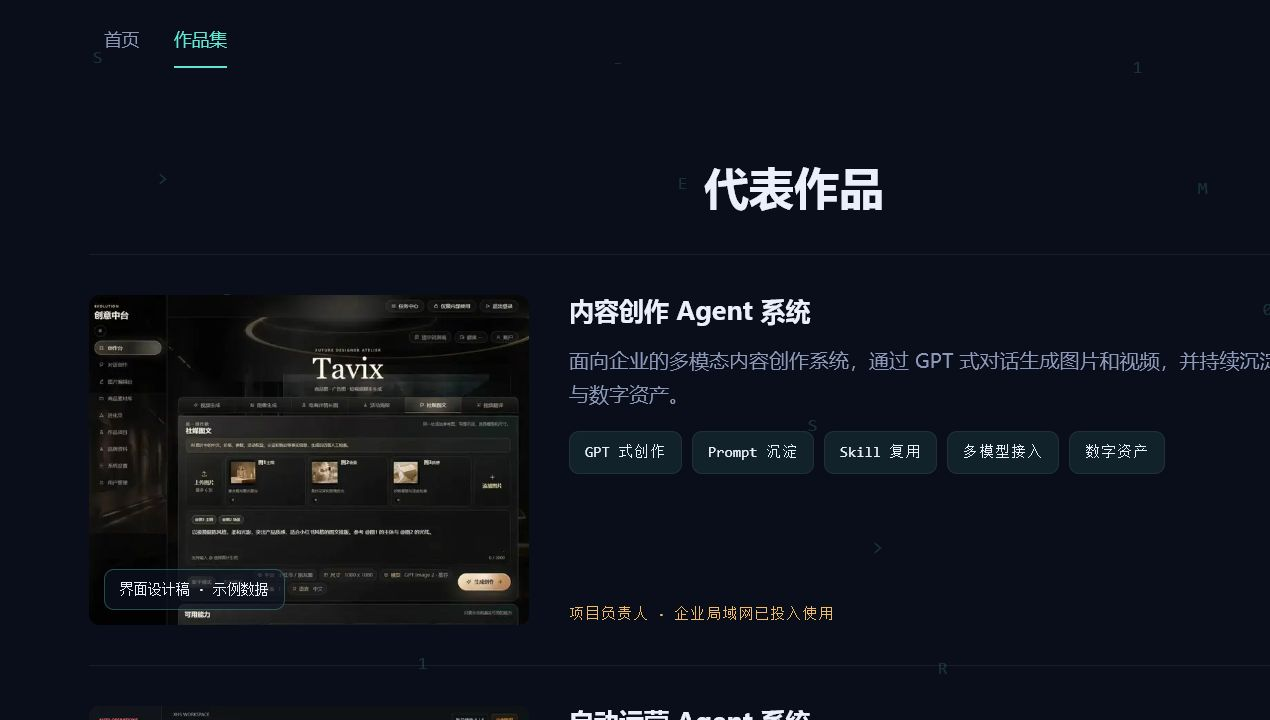
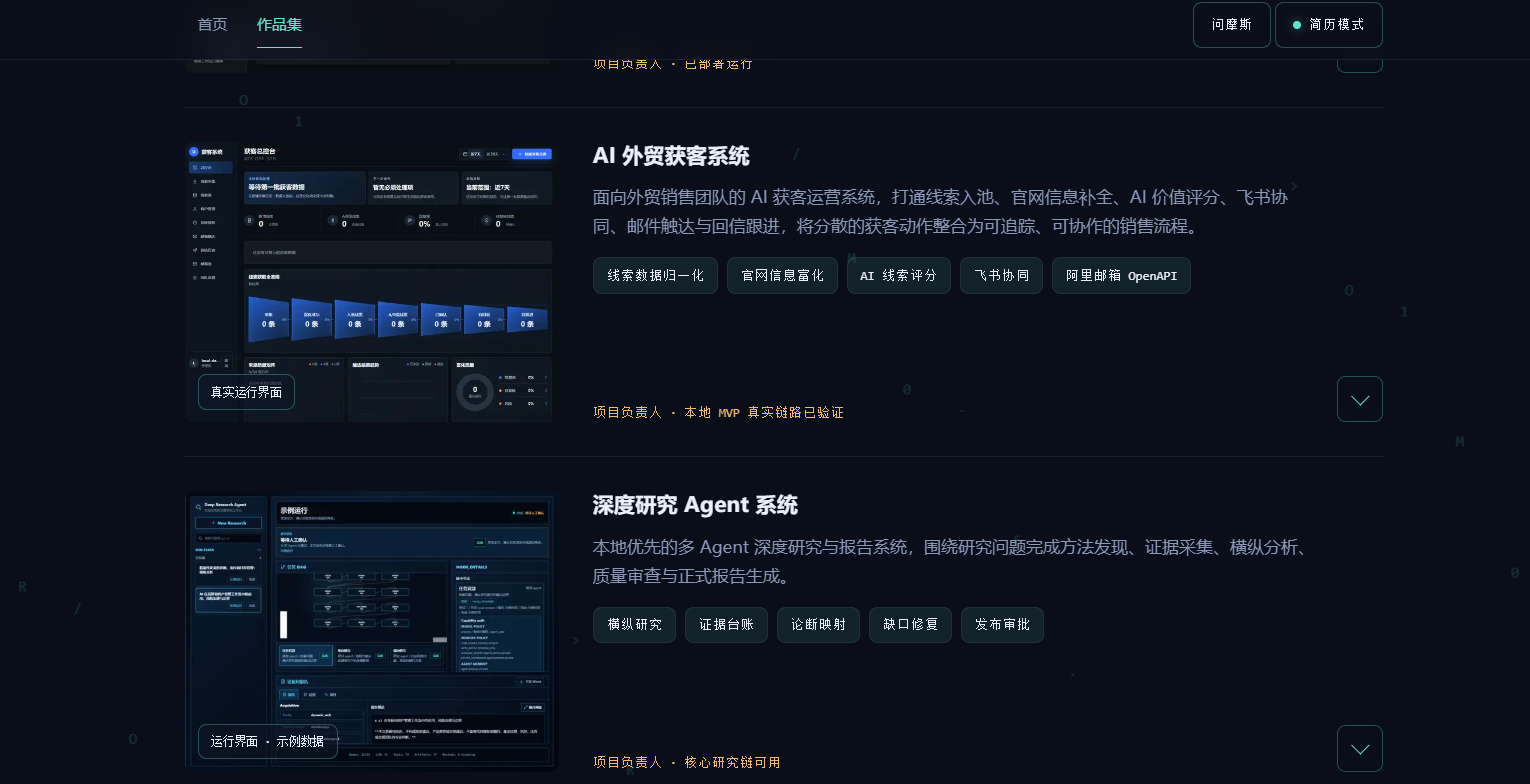
fix: refresh digital Morse portfolio cover

diff --git a/tests/site-content.test.ts b/tests/site-content.test.ts
@@ -420,10 +420,10 @@ test("publishes only the five separately approved project media assets", () => {
   assert.equal(mediaProjects[3]?.media?.width, 1440);
   assert.equal(mediaProjects[3]?.media?.height, 1080);
   assert.equal(mediaProjects[3]?.media?.label, "运行界面 · 示例数据");
-  assert.equal(mediaProjects[4]?.media?.width, 576);
-  assert.equal(mediaProjects[4]?.media?.height, 648);
-  assert.match(mediaProjects[4]?.media?.evidence.runMode ?? "", /本地 production build/);
-  assert.equal(mediaProjects[4]?.media?.label, "产品界面 · 示例会话");
+  assert.equal(mediaProjects[4]?.media?.width, 1381);
+  assert.equal(mediaProjects[4]?.media?.height, 770);
+  assert.match(mediaProjects[4]?.media?.evidence.runMode ?? "", /线上站点截图/);
+  assert.equal(mediaProjects[4]?.media?.label, "线上站点首页 · 当前界面");
 });
 
 test("keeps the approved global copy and four FAQ topics", () => {
@@ -518,11 +518,11 @@ test("digital Morse leads with visitor value, solo delivery, and honest future s
   assert.ok(project.media);
   assert.equal(
     project.media.src,
-    "/works/digital-morse/digital-morse-main-local-2026-07-19.png",
+    "/works/digital-morse/digital-morse-home-2026-07-22.png",
   );
   assert.equal(
     project.media.label,
-    "产品界面 · 示例会话",
+    "线上站点首页 · 当前界面",
   );
   assert.deepEqual(project.askMorse, {
     label: "问数字摩斯",

diff --git a/tests/work-asset.test.ts b/tests/work-asset.test.ts
@@ -10,7 +10,7 @@ const approvedFilename = 'login-workbench-2026-07-13.png';
 const sourceFilename =
   'auto-operations-railway-login-desktop-1440-2026-07-13.png';
 const digitalMorseAssetDirectory = path.join(publicRoot, 'works', 'digital-morse');
-const digitalMorseFilename = 'digital-morse-main-local-2026-07-19.png';
+const digitalMorseFilename = 'digital-morse-home-2026-07-22.png';
 const deepResearchAssetDirectory = path.join(publicRoot, 'works', 'deep-research');
 const deepResearchFilename = 'operator-workbench-example.png';
 const aiLeadgenAssetDirectory = path.join(publicRoot, 'works', 'ai-leadgen');

diff --git a/scripts/digital-morse-visual-smoke.py b/scripts/digital-morse-visual-smoke.py
@@ -3,6 +3,7 @@ from __future__ import annotations
 import argparse
 import json
 import re
+import struct
 from pathlib import Path
 from urllib.parse import urlsplit
 
@@ -16,7 +17,7 @@ PUBLIC_ASSET = (
     / "public"
     / "works"
     / "digital-morse"
-    / "digital-morse-main-local-2026-07-19.png"
+    / "digital-morse-home-2026-07-22.png"
 )
 PROMPT = (
     "请介绍数字摩斯的三种对话流程、RAG 与可靠性设计，"
@@ -102,35 +103,18 @@ def track_errors(page: Page) -> tuple[list[str], list[str], list[dict]]:
     return console_errors, page_errors, http_errors
 
 
-def capture_public_asset(playwright: Playwright, base_url: str) -> dict:
-    browser = launch_browser(playwright)
-    page = browser.new_page(viewport={"width": 1440, "height": 900})
-    console_errors, page_errors, http_errors = track_errors(page)
-    authorize_chat(page)
+def inspect_public_asset() -> dict:
+    with PUBLIC_ASSET.open("rb") as image:
+        header = image.read(24)
+    if header[:8] != b"\x89PNG\r\n\x1a\n":
+        raise AssertionError("Digital Morse public asset is not a PNG")
 
-    page.goto(base_url.rstrip("/"), wait_until="networkidle")
-    panel = page.get_by_test_id("morse-chat-panel")
-    expect(panel).to_be_visible()
-    expect(panel.get_by_role("button", name="自由对话")).to_be_visible()
-    expect(panel.locator("#morse-message")).to_be_visible()
-
-    box = panel.bounding_box()
-    if box is None:
-        raise AssertionError("Digital Morse panel has no screenshot bounds")
-    size = [round(box["width"]), round(box["height"])]
-    if size != [576, 648]:
-        raise AssertionError(f"Digital Morse public asset is {size}, expected [576, 648]")
-
-    PUBLIC_ASSET.parent.mkdir(parents=True, exist_ok=True)
-    panel.screenshot(path=PUBLIC_ASSET)
-    result = {
-        "size": size,
-        "consoleErrors": console_errors,
-        "pageErrors": page_errors,
-        "httpErrors": http_errors,
-    }
-    browser.close()
-    return result
+    size = list(struct.unpack(">II", header[16:24]))
+    if size != [1381, 770]:
+        raise AssertionError(
+            f"Digital Morse public asset is {size}, expected [1381, 770]"
+        )
+    return {"size": size}
 
 
 def inspect_viewport(
@@ -156,7 +140,7 @@ def inspect_viewport(
         "嵌入个人作品集的 AI 数字分身系统，通过自由对话、JD 匹配和需求初诊"
     )
     expect(card).to_contain_text("项目负责人 · 已上线 · 持续完善中")
-    badge = card.get_by_text("产品界面 · 示例会话")
+    badge = card.get_by_text("线上站点首页 · 当前界面")
     expect(badge).to_be_visible()
     media = badge.locator("..")
     badge_box = badge.bounding_box()
@@ -214,7 +198,7 @@ def inspect_viewport(
 
     image = card.locator("img").first
     expect(image).to_have_attribute(
-        "src", re.compile(r"digital-morse-main-local-2026-07-19\.png")
+        "src", re.compile(r"digital-morse-home-2026-07-22\.png")
     )
     image_loaded = image.evaluate(
         "element => element.complete && element.naturalWidth > 0 && element.naturalHeight > 0"
@@ -270,8 +254,8 @@ def inspect_viewport(
 def main() -> None:
     args = parse_args()
     OUTPUT_DIR.mkdir(parents=True, exist_ok=True)
+    public_asset = inspect_public_asset()
     with sync_playwright() as playwright:
-        public_asset = capture_public_asset(playwright, args.base_url)
         results = [
             inspect_viewport(playwright, args.base_url, "desktop", 1440, 900),
             inspect_viewport(playwright, args.base_url, "mobile", 390, 844),
@@ -288,13 +272,6 @@ def main() -> None:
         or not result["promptFits"]
         or result["horizontalOverflow"] > 0
     ]
-    if (
-        public_asset["consoleErrors"]
-        or public_asset["pageErrors"]
-        or public_asset["httpErrors"]
-    ):
-        failures.append({"publicAsset": public_asset})
-
     print(
         json.dumps(
             {"publicAsset": public_asset, "results": results, "failures": failures},

diff --git a/docs/portfolio-blueprint.md b/docs/portfolio-blueprint.md
@@ -316,10 +316,10 @@
 - **范围**：本轮只完善 `/works#digital-morse`、对应公共知识、项目主图和站内“问数字摩斯”入口，不修改既有聊天业务逻辑，不顺带改写另外三个项目。
 - **公开简介**：首层使用一段短简介和四个亮点，突出三类对话工作流、BGE + pgvector RAG、可追溯来源与受控联网、停止/重试/会话恢复；完整技术栈和工程细节保留在展开案例与数字分身回答中。
 - **职责口径**：摩斯是数字摩斯的项目发起人兼项目负责人；从作品集、RAG、对话工作流、管理后台到生产部署，全部技术实现均由摩斯独立完成。“独立完成技术实现”只说明技术实现归属，不覆盖其他项目中来自业务方、使用者和相关人员的需求、产品方向或创意输入。
-- **主图决定**：只展示新版数字摩斯主界面，正式媒体为 `public/works/digital-morse/digital-morse-main-local-2026-07-19.png`；首层标注“本地验收截图 · 示例会话 · 非生产访客数据”，不混入旧版界面或真实生产会话。
+- **主图决定**：展示数字摩斯个人独立站首页，正式媒体为 `public/works/digital-morse/digital-morse-home-2026-07-22.png`；首层标注“线上站点首页 · 当前界面”，画面不包含邀请码、真实访客或生产会话。
 - **知识与对话**：公共知识除项目聚合文档外，新增定位、工作流、RAG、可靠性、职责和路线图六个独立主题，统一链接 `/works#digital-morse`；项目卡片的“问数字摩斯”只打开既有站内对话、切回自由对话并预填获批问题，不自动发送，也不绕过邀请码。
 - **未来方向**：语音与视频表达、授权式跨 Session 长期记忆、人工审核的知识更新仅作为下一阶段规划；当前尚未实现，不能写成现有能力。
-- **媒体安全**：主图由本地 production build 与受控 fixture 生成，不包含真实访客、生产会话、邀请码、密钥、内部地址或 Provider payload；公开内容不得泄露私有知识、管理数据或运行凭据。
+- **媒体安全**：主图为当前线上站点截图，不包含邀请码、真实访客、生产会话、密钥、内部地址或 Provider payload；公开内容不得泄露私有知识、管理数据或运行凭据。
 - **知识同步**：本地 CPU BGE + pgvector 首轮更新 7 文档 / 8 分块、跳过 14 文档，第二轮 21/21 全量跳过；30 例语义评测 top-1 为 26/30、top-3 为 30/30，最低正例 `0.526690`、最高负例 `0.420975`，正负阈值均通过。Embedding 与数据库均为 loopback 服务，未调用付费 Provider，未写生产数据库。
 - **验收证据**：定向内容测试已通过 21/21；作品集生产构建的最终全量测试、build 与 1440×900 / 390×844 浏览器复验记录统一收口在 `docs/verify/digital-morse/digital-morse-closeout.md`。
 

diff --git a/docs/superpowers/specs/2026-07-19-digital-morse-story-and-knowledge-design.md b/docs/superpowers/specs/2026-07-19-digital-morse-story-and-knowledge-design.md
@@ -14,7 +14,7 @@
 - 两行简介：嵌入个人作品集的 AI 数字分身系统，通过自由对话、JD 匹配和需求初诊，帮助访客快速了解项目与能力，并获得带来源的可追溯回答。
 - 五个能力短词：三类对话工作流、BGE + pgvector、可追溯来源、受控联网、停止与恢复。
 - 真实状态：唯一开发者 · 已上线 · 持续完善中。
-- 主图：数字摩斯对话主界面，使用示例会话；角标为“产品界面 · 示例会话”。
+- 主图：数字摩斯个人独立站首页；角标为“线上站点首页 · 当前界面”。
 
 展开详情固定为五段：
 
@@ -53,7 +53,7 @@
 
 “问数字摩斯”只打开现有站内对话、切回自由对话并预填获批问题，不自动发送。CTA 位于五段详情之后，外部 GitHub 入口与其并列。
 
-主图沿用 `public/works/digital-morse/digital-morse-main-local-2026-07-19.png`。作品卡片对数字摩斯使用右上角短角标，避免遮挡示例界面入口；其他项目沿用共享媒体角标规则。
+主图使用 `public/works/digital-morse/digital-morse-home-2026-07-22.png`。作品卡片对数字摩斯使用右上角短角标，避免遮挡首页界面；其他项目沿用共享媒体角标规则。
 
 ## 5. 验收合同
 

diff --git a/content/drafts/system-digital-morse.md b/content/drafts/system-digital-morse.md
@@ -22,7 +22,7 @@
 
 ### 推荐主图
 
-数字摩斯对话主界面，三类工作流入口与提问区同屏。以 `public/works/digital-morse/digital-morse-main-local-2026-07-19.png` 为基线，裁去底部会话有效期信息后使用。
+数字摩斯个人独立站首页，作品入口与数字分身邀请入口同屏。当前公开封面使用 `public/works/digital-morse/digital-morse-home-2026-07-22.png`。
 
 ## 展开详情
 